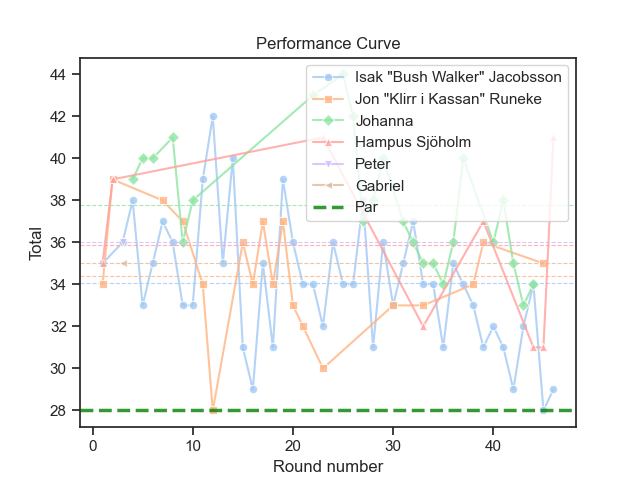
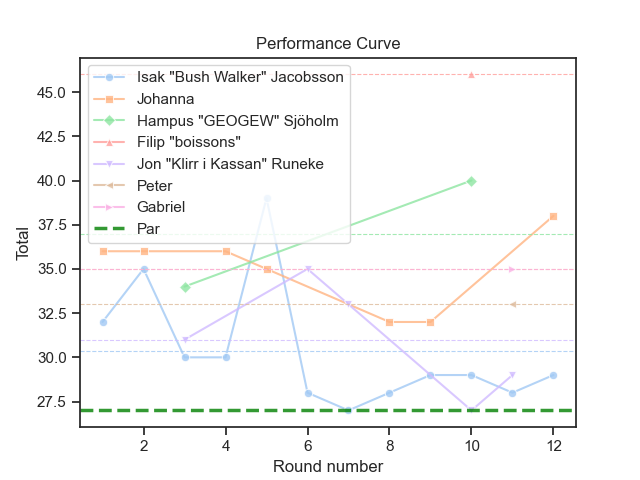
README: Change course to New Main 2026

diff --git a/README.md b/README.md
@@ -69,7 +69,7 @@ Shows how your scores are distributed per hole for a given course and layout.
 Example:
 
 ```
-python udisc_analysis.py hole-distribution --csv-dir score_cards --course Vipan --layout Main
+python udisc_analysis.py hole-distribution --csv-dir score_cards --course Vipan --layout 'New Main 2026'
 ```
 
 This generates a plot like the one below:
@@ -83,7 +83,7 @@ Plots a performance curve to visualize how your scoring develops over time.
 Example:
 
 ```
-python udisc_analysis.py performance-curve --csv-dir score_cards --course Vipan --layout Main
+python udisc_analysis.py performance-curve --csv-dir score_cards --course Vipan --layout 'New Main 2026'
 ```
 
 Example output:
@@ -97,7 +97,7 @@ Shows how often different total scores occur for a given course and layout.
 Example:
 
 ```
-python udisc_analysis.py score-distribution --course Vipan --layout Main --csv-dir score_cards
+python udisc_analysis.py score-distribution --course Vipan --layout 'New Main 2026' --csv-dir score_cards
 ```
 
 Example output:
@@ -112,7 +112,7 @@ directly to the terminal.
 Example:
 
 ```
-python udisc_analysis.py basic-stats --csv-dir score_cards --course Vipan --layout Main
+python udisc_analysis.py basic-stats --csv-dir score_cards --course Vipan --layout 'New Main 2026'
 ```
 
 An example of the output can be found in [docs/basic-stats-demo.txt](./docs/basic-stats-demo.txt).
